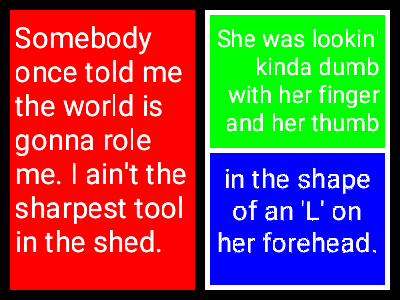
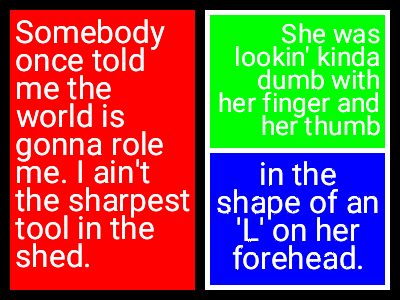
upgrade deps

diff --git a/src/text.rs b/src/text.rs
@@ -440,7 +440,7 @@ where
     type Scalar = f64;
     fn char_width(&mut self, character: char, font_size: u32) -> Self::Scalar {
         if let Ok(texture) = <Self as CharacterCache>::character(self, font_size, character) {
-            texture.size.x()
+            texture.advance_size.x()
         } else {
             panic!("CharacterWidthCache::character returned Err")
         }

diff --git a/examples/simple.rs b/examples/simple.rs
@@ -12,7 +12,7 @@ const MESSAGE3: &str = "in the shape of an 'L' on her forehead.";
 
 fn main() {
     // Initialize the glyphs
-    let mut glyphs = BufferGlyphs::from_bytes(ROBOTO).unwrap();
+    let mut glyphs = buffer_glyphs_from_bytes(ROBOTO).unwrap();
 
     // Initialize a text format
     let format = TextFormat::new(50).color(color::WHITE);
